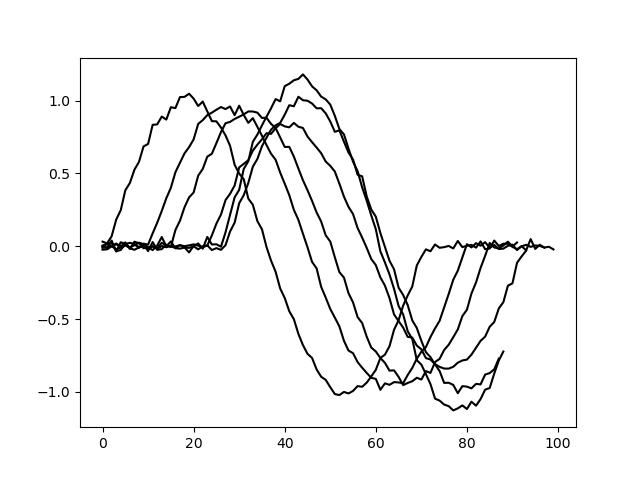
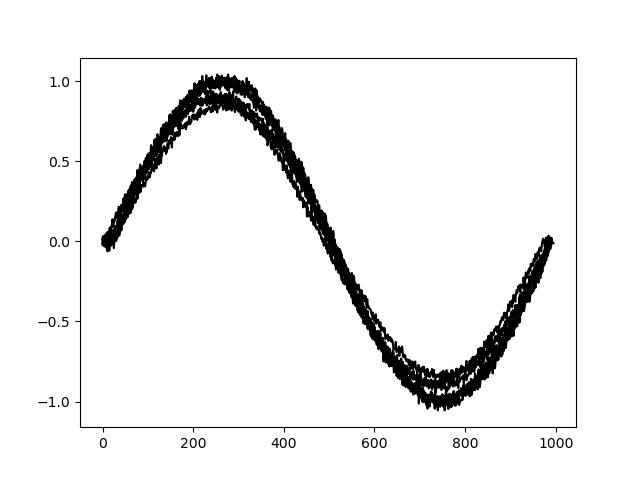
confidence it works with large N

diff --git a/DBA.py b/DBA.py
@@ -151,7 +151,7 @@ def DBA_update(center, series, cost_mat, path_mat, delta_mat):
 def main():
     #generating synthetic data
     n_series = 6
-    length = 100
+    length = 1000
 
     series = list()
     padding_length=30
